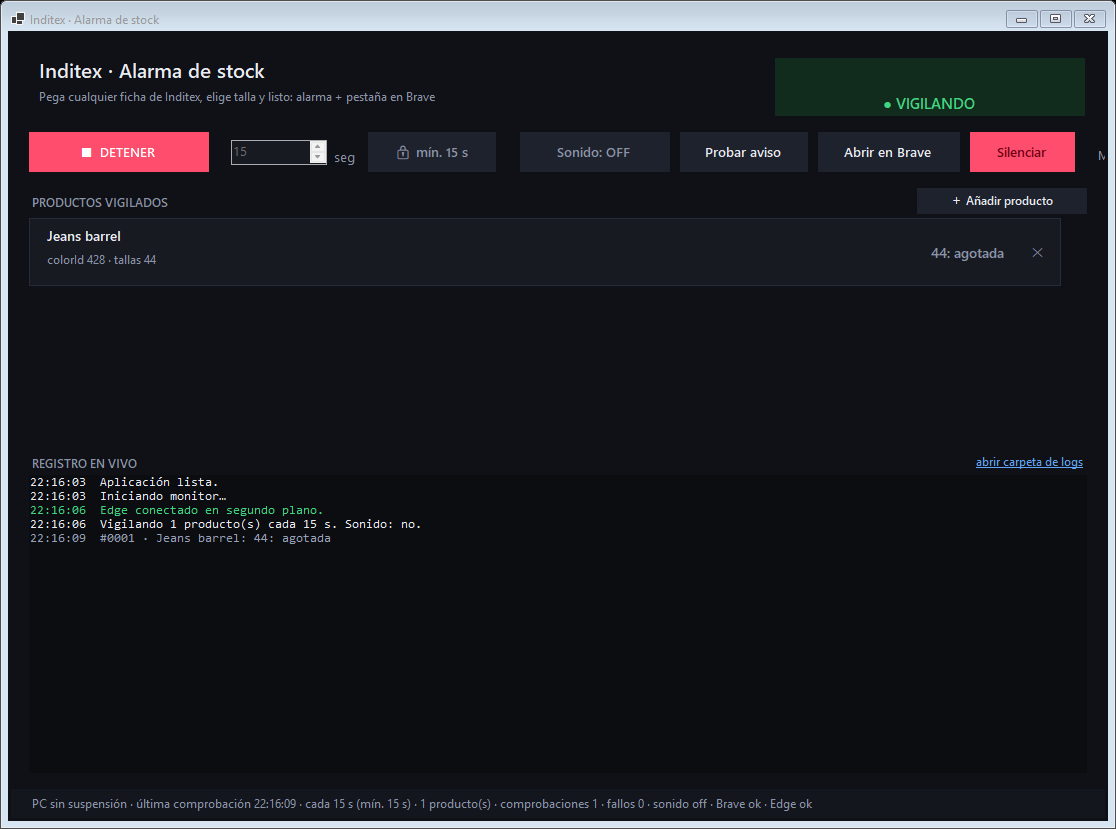
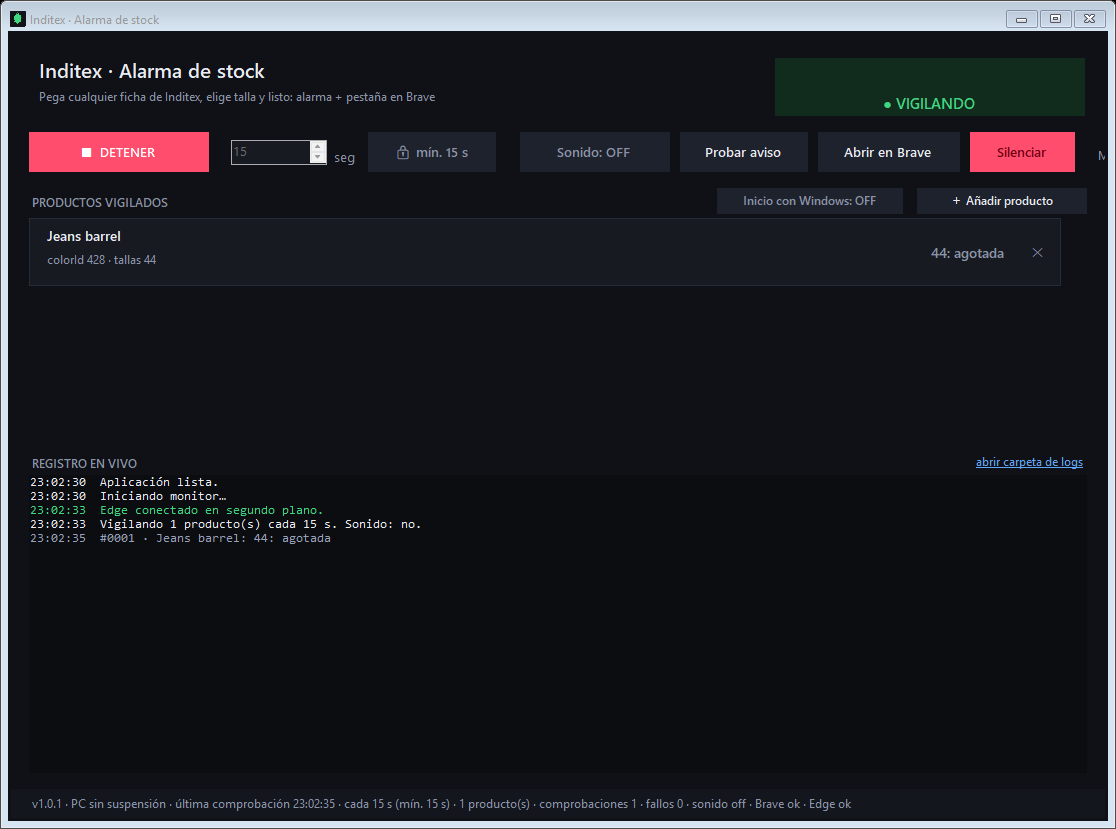
docs: resultados de pruebas por web y captura actualizada

diff --git a/MainForm.cs b/MainForm.cs
@@ -40,8 +40,7 @@ public sealed class MainForm : Form
     private Button _btnSilence = null!;
     private Button _btnSound = null!;
     private Button _btnLock = null!;
-    private CheckBox _chkStartup = null!;
-    private bool _startupGuard;
+    private Button _btnStartup = null!;
     private NumericUpDown _num = null!;
     private RichTextBox _log = null!;
     private FlowLayoutPanel _itemsPanel = null!;
@@ -382,10 +381,21 @@ public sealed class MainForm : Form
         catch (Exception ex)
         {
             Log("No pude cambiar el arranque con Windows: " + ex.Message, LogKind.Warn);
-            _startupGuard = true;
-            _chkStartup.Checked = !enabled;
-            _startupGuard = false;
         }
+    }
+
+    private void ApplyStartupState()
+    {
+        var on = File.Exists(StartupShortcutPath);
+        _btnStartup.Text = "Inicio con Windows: " + (on ? "ON" : "OFF");
+        _btnStartup.ForeColor = on ? Palette.Green : Palette.Muted;
+        _btnStartup.BackColor = on ? Palette.GreenBg : Palette.Chip;
+    }
+
+    private void ToggleStartup()
+    {
+        SetStartup(!File.Exists(StartupShortcutPath));
+        ApplyStartupState();
     }
 
     private void ToggleFast()
@@ -442,26 +452,17 @@ public sealed class MainForm : Form
         add.Click += (_, _) => AddItem();
         head.Controls.Add(add);
 
-        _chkStartup = new CheckBox
-        {
-            Text = "Iniciar con Windows",
-            AutoSize = true,
-            ForeColor = Palette.Muted,
-            FlatStyle = FlatStyle.Flat,
-            Cursor = Cursors.Hand,
-            Checked = File.Exists(StartupShortcutPath)
-        };
-        _chkStartup.CheckedChanged += (_, _) =>
-        {
-            if (_startupGuard) return;
-            SetStartup(_chkStartup.Checked);
-        };
-        head.Controls.Add(_chkStartup);
+        _btnStartup = MakeButton("", Palette.Chip, Palette.Muted, 186);
+        _btnStartup.Height = 26;
+        _btnStartup.Font = new Font("Segoe UI Semibold", 9f);
+        _btnStartup.Click += (_, _) => ToggleStartup();
+        head.Controls.Add(_btnStartup);
+        ApplyStartupState();
 
         head.Resize += (_, _) =>
         {
             add.Location = new Point(head.ClientSize.Width - add.Width, 0);
-            _chkStartup.Location = new Point(add.Left - _chkStartup.Width - 18, 7);
+            _btnStartup.Location = new Point(add.Left - _btnStartup.Width - 14, 0);
         };
 
         _itemsPanel = new FlowLayoutPanel

diff --git a/README.md b/README.md
@@ -24,12 +24,12 @@ Lo único que pido (y que la licencia MIT ya exige) es **mantener el aviso de co
 
 | Web | Estado |
 | --- | --- |
-| Bershka | ✅ probado |
-| Zara | ✅ probado |
-| Pull&Bear | ⚠ misma plataforma, probablemente funciona (sin verificar) |
-| Stradivarius | ⚠ misma plataforma, probablemente funciona (sin verificar) |
-| Oysho | ⚠ misma plataforma, probablemente funciona (sin verificar) |
-| Massimo Dutti | ⚠ misma plataforma, probablemente funciona (sin verificar) |
+| Bershka | ✅ probado (talla 44) |
+| Zara | ✅ probado (talla M) |
+| Oysho | ✅ probado (talla M) |
+| Pull&Bear | ⚠ la ficha carga, pero no expone las tallas en modo headless (pendiente) |
+| Stradivarius | ⚠ la ficha carga, pero no expone las tallas en modo headless (pendiente) |
+| Massimo Dutti | ⚠ sin ficha de prueba; misma plataforma |
 | Uterqüe / Zara Home | ⚠ sin verificar |
 
 La app acepta cualquier URL de esos dominios. Si en una web no encuentra las tallas, lo muestra como **ERROR** en la fila del producto (no falla en silencio) y el log dice `sin-tallas`.
